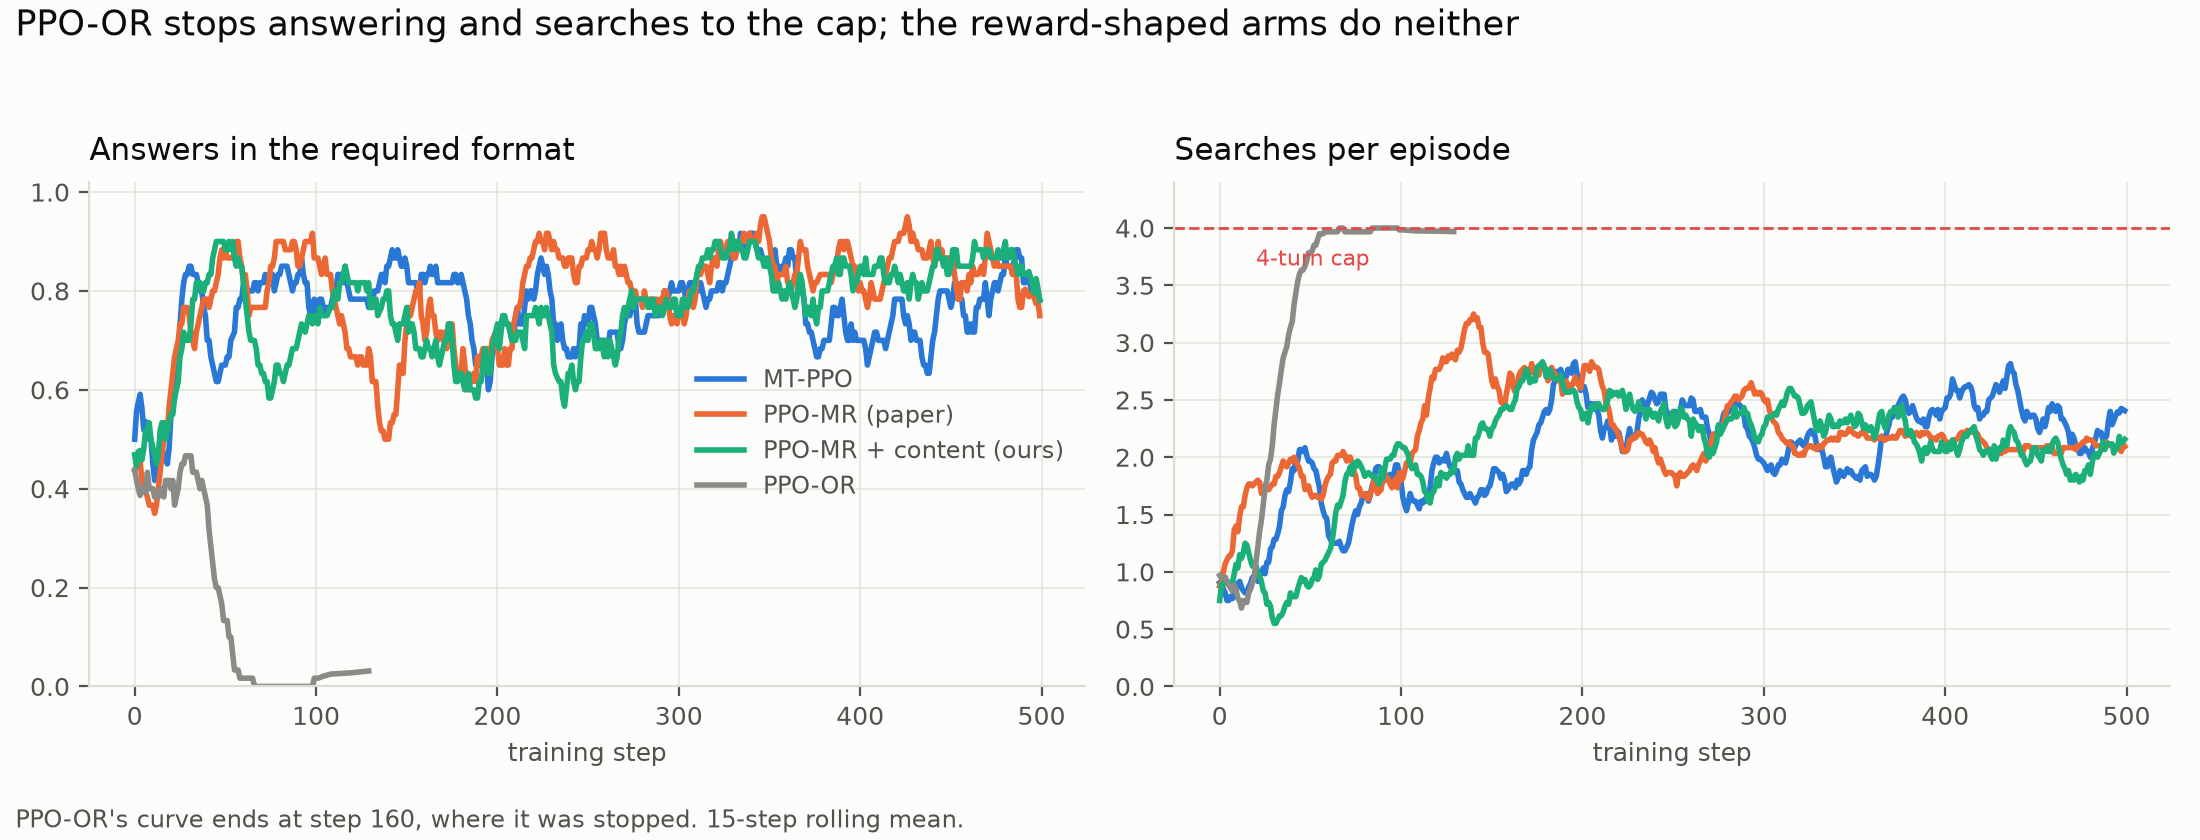
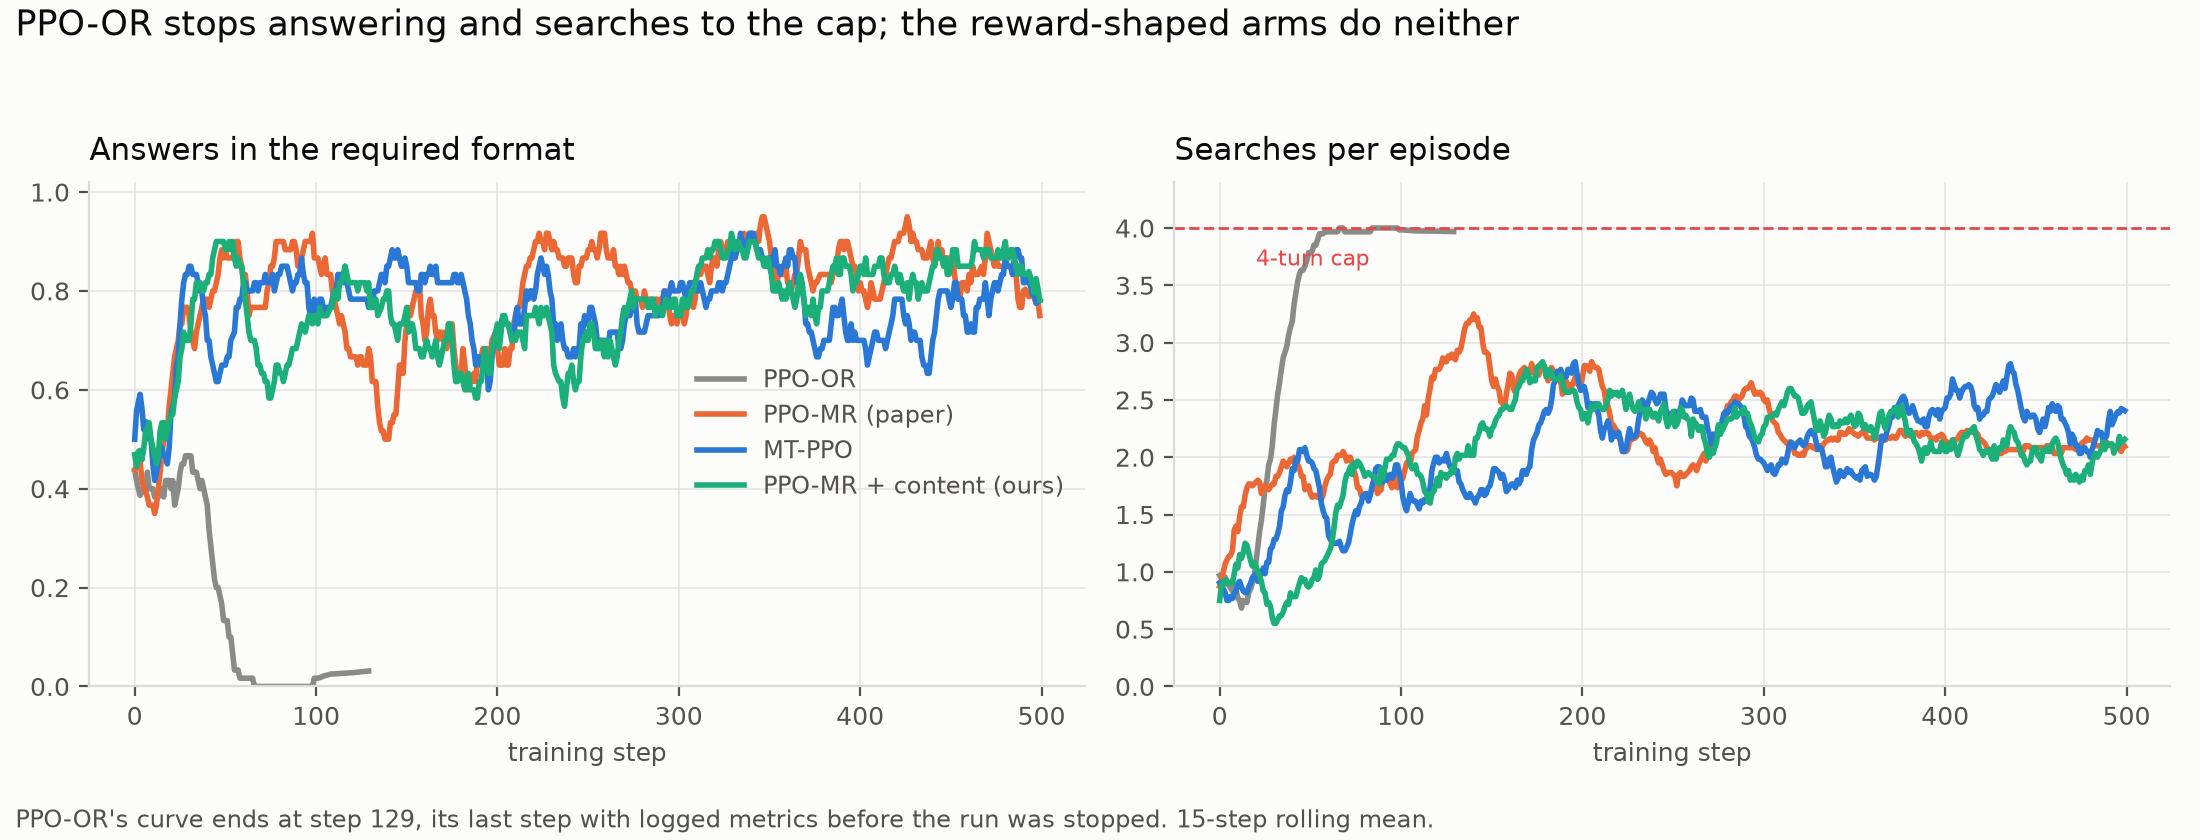
Order the results chart and table like the section that introduces them
"Reward approaches explored" builds GRPO first and then switches algorithms,
but the chart and table both led with PPO, so the reader met the arms in one
order and their results in another.

Reordered to GRPO-OR, GRPO-MR, PPO-OR, PPO-MR, MT-PPO. Reading down now shows
the -OR/-MR pattern repeating across both algorithms, which is the section's
actual argument. The PPO training chart's legend follows the same order,
with the collapsed arm drawn first so it sits behind the three that trained.

Also fixes that chart's footnote: it said PPO-OR's curve ends at step 160,
but the plotted line stops at 129 -- the run was stopped at 159, and the steps
between logged no metrics because they were skipped for OOM.

diff --git a/scripts/plot_phase7c.py b/scripts/plot_phase7c.py
@@ -56,19 +56,21 @@ def _fig(width: float, height: float, ncols: int = 1):
 
 
 # Paper Table 2, HotpotQA. Format correctness is not reported for the two MR baselines.
+# Ordered to match the README's "Reward approaches explored" section, which builds GRPO first and
+# then switches algorithms. Both dicts drive plot order, so they must stay in step.
 PAPER_ANCHORS = {
+    "GRPO-OR": (0.331, 0.513),
+    "GRPO-MR": (0.416, None),
     "PPO-OR": (0.435, 0.916),
     "PPO-MR": (0.436, None),
     "MT-PPO": (0.453, 0.998),
-    "GRPO-OR": (0.331, 0.513),
-    "GRPO-MR": (0.416, None),
 }
 ARM_KEYS = {
+    "GRPO-OR": "grpo_or",
+    "GRPO-MR": "grpo_mr",
     "PPO-OR": "ppo-precollapse",
     "PPO-MR": "ppo_mr_paper",
     "MT-PPO": "mt_ppo",
-    "GRPO-OR": "grpo_or",
-    "GRPO-MR": "grpo_mr",
 }
 # Arms whose training died, so their held-out scores are not comparable measurements. GRPO-OR's
 # gradient was exactly zero from step 185 on; PPO-OR was stopped once it had stopped answering.
@@ -309,11 +311,13 @@ def plot_collapse(curves: dict, out: Path) -> None:
 
 # Categorical slots for the four PPO arms. ppo is deliberately the desaturated one -- it is the
 # arm that died, and it should read as background against the three that trained.
+# Same section order as PAPER_ANCHORS, restricted to the PPO track. PPO-OR is drawn first so the
+# collapsed arm sits behind the three that trained rather than over them.
 PPO_ARMS = [
-    ("MT-PPO", "mt_ppo", OURS),
-    ("PPO-MR (paper)", "ppo_mr_paper", PAPER),
-    ("PPO-MR + content (ours)", "ppo_mr", GAIN),
     ("PPO-OR", "ppo", DEAD),
+    ("PPO-MR (paper)", "ppo_mr_paper", PAPER),
+    ("MT-PPO", "mt_ppo", OURS),
+    ("PPO-MR + content (ours)", "ppo_mr", GAIN),
 ]
 
 
@@ -362,7 +366,8 @@ def plot_training(curves: dict, out: Path) -> None:
     fig.text(
         0.007,
         0.015,
-        "PPO-OR's curve ends at step 160, where it was stopped. 15-step rolling mean.",
+        "PPO-OR's curve ends at step 129, its last step with logged metrics before the run was "
+        "stopped. 15-step rolling mean.",
         fontsize=8.5,
         color=INK_SOFT,
     )

diff --git a/README.md b/README.md
@@ -153,11 +153,11 @@ Only the reward differs.
 
 | Arm (held-out, 7,404 questions) | Exact match | F1 | Format | Retrieval |
 | ------------------------------- | ----------- | ---- | ------ | --------- |
+| `GRPO-OR` | 0.000 | 0.015 | 0.421 | — |
+| `GRPO-MR` | **0.295** | **0.391** | **0.975** | 0.475 |
 | `PPO-OR`* | 0.002 | 0.002 | 0.003 | 0.528 |
 | `PPO-MR`  | 0.235 | 0.301 | 0.642 | **0.551** |
 | `MT-PPO`  | 0.274 | 0.362 | 0.830 | 0.521 |
-| `GRPO-OR` | 0.000 | 0.015 | 0.421 | — |
-| `GRPO-MR` | **0.295** | **0.391** | **0.975** | 0.475 |
 | `PPO-MR + content`† | **0.301** | **0.395** | 0.817 | 0.519 |
 
 `*` scored at its last checkpoint before collapse, the paper's own methodology for its crashed
